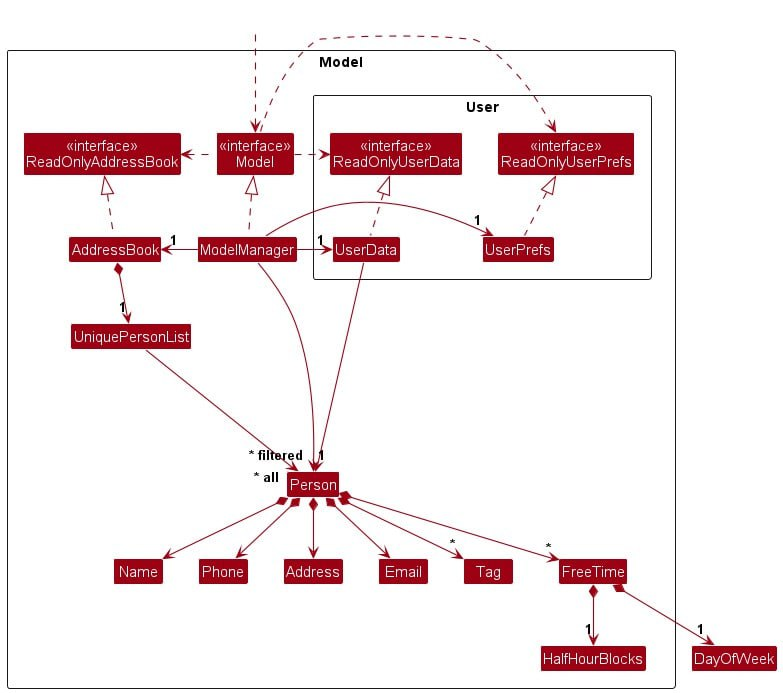
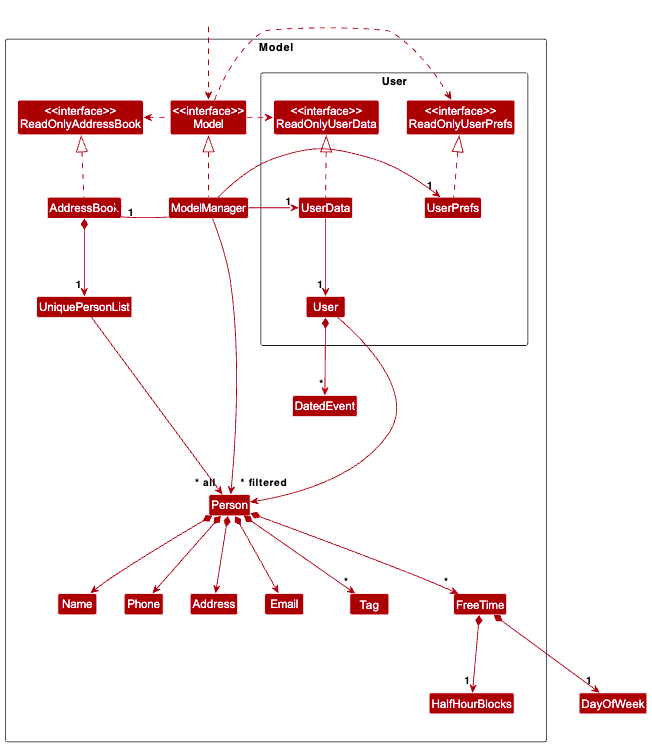
Update ModelClassDiagram Model's class diagram was not updated. This causes confusion for new developers reading our Developer Guide.
Updated Model's class diagram to reflect
new changes.

diff --git a/docs/DeveloperGuide.md b/docs/DeveloperGuide.md
@@ -131,7 +131,9 @@ The `Model` component,
 
 * stores the address book data i.e., all `Person` objects (which are contained in a `UniquePersonList` object).
 * stores the currently 'selected' `Person` objects (e.g., results of a search query) as a separate _filtered_ list which is exposed to outsiders as an unmodifiable `ObservableList<Person>` that can be 'observed' e.g. the UI can be bound to this list so that the UI automatically updates when the data in the list change.
-* stores a `UserPref` object that represents the user’s preferences. This is exposed to the outside as a `ReadOnlyUserPref` objects.
+* stores a `UserPref` object that represents the user’s preferences. This is exposed to the outside as a `ReadOnlyUserPref` object.
+* stores user data i.e. one `User` object, which contains user details. This is exposed to the outside as a `ReadOnlyUserData` object.
+* stores the `User` object in a `ObservableList<User>` that can be 'obeserved' e.g. the UI can be bound to this list so that the UI automatically updates when user data changes.
 * does not depend on any of the other three components (as the `Model` represents data entities of the domain, they should make sense on their own without depending on other components)
 
 <div markdown="span" class="alert alert-info">:information_source: **Note:** An alternative (arguably, a more OOP) model is given below. It has a `Tag` list in the `AddressBook`, which `Person` references. This allows `AddressBook` to only require one `Tag` object per unique tag, instead of each `Person` needing their own `Tag` objects.<br>
